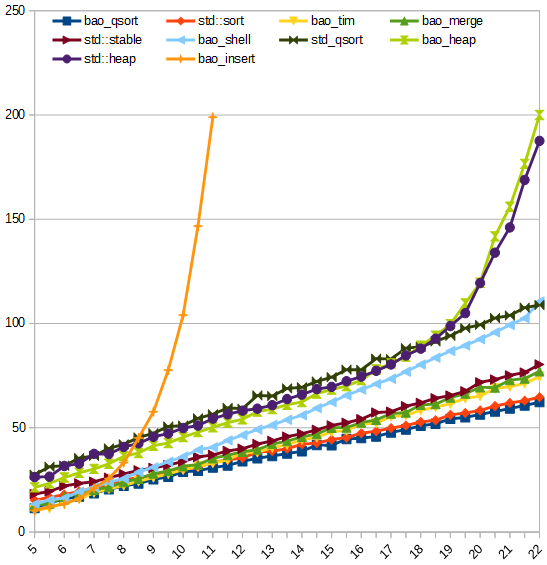
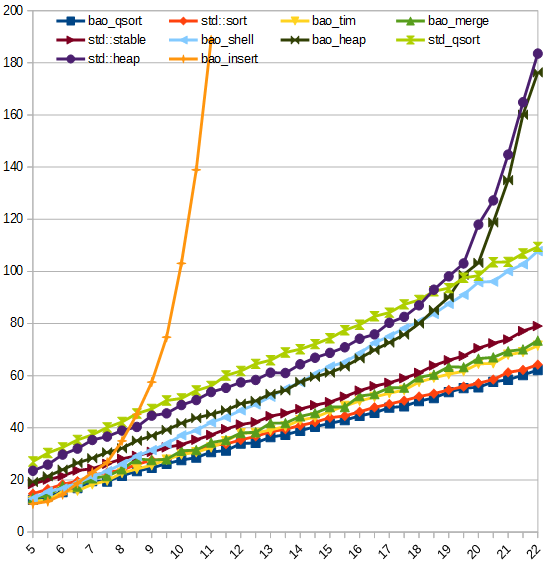
Benchmark update

Changed region(s): [[0.0, 0.0, 1.0, 0.9929], [0.7148, 0.0301, 0.9013, 0.0903], [0.5283, 0.0301, 0.6837, 0.0903]]

diff --git a/README.md b/README.md
@@ -52,31 +52,39 @@ Build with `g++ -std=c++03 -O3 sorttest.cpp` on Centos 7 x64, gcc version is 8.3
 
 TestClass 8 |  1  |  2  |  3  |  4  |  5  |  6  |  7  |  8  |  9  |  10 |  11 |  12 | Avg |
 ------------|----:|----:|----:|----:|----:|----:|----:|----:|----:|----:|----:|----:|----:|
-bao_qsort   |   11|   61|   64|  206|  177|   74|  106|   87|   82|  114|  187|  131|  108|
-std::sort   |  128|   76|   64|  184|  185|  145|  139|   79|  178|  109|  184|  155|  135|
-bao_tim     |    7|   31|   19|  267|  275|  226|  170|   12|  148|   95|  260|  149|  138|
-bao_merge   |    6|   16|  169|  266|  279|  224|  205|   57|  165|   96|  269|  155|  158|
-bao_shell   |  132|  133|  159|  431|  452|  260|  185|  145|  233|  148|  409|  148|  236|
-bao_mer_in  |    5|   14|  564|  489|  473|  383|  367|   54|  307|   93|  465|  152|  280|
-std::stable |  530|  293|  324|  379|  354|  334|  330|  301|  319|  315|  349|  180|  334|
-std_qsort   |  405|  205|  594|  476|  495|  432|  358|  228|  323|  270|  488|  293|  380|
-bao_heap    |   22|  239|  248|  854|  822|  344|  321|  247|  606|  219|  845|  217|  415|
-std::heap   |  236|  251|  313|  866|  891|  377|  356|  226|  667|  274|  900|  266|  468|
+bao_qsort   |   11|   62|   67|  168|  166|   63|   57|   87|   92|   95|  173|  127|   97|
+std::sort   |  116|   66|   67|  174|  170|  123|  121|   72|  160|  111|  164|  130|  122|
+bao_tim     |    6|   31|   17|  279|  244|  219|  182|   13|  139|   87|  234|  126|  131|
+bao_merge   |   18|   29|  173|  264|  244|  203|  170|   56|  144|   92|  232|  124|  145|
+bao_mer_buf |    5|   18|  138|  395|  355|  222|  209|   51|  220|   85|  343|  126|  180|
+bao_shell   |  121|  121|  141|  379|  403|  230|  166|  120|  192|  147|  348|  143|  209|
+bao_mer_in  |    5|   17|  153|  571|  594|  282|  223|   53|  265|  116|  513|  169|  246|
+std::stable |  287|  303|  294|  338|  317|  318|  305|  299|  297|  292|  322|  154|  293|
+std_qsort   |  172|  176|  271|  419|  437|  361|  303|  213|  283|  222|  425|  263|  295|
+grail_dyn   |   83|  318|  353|  478|  445|  424|  341|  300|  455|  309|  429|  257|  349|
+bao_heap    |   33|  236|  197|  729|  745|  282|  267|  197|  447|  188|  754|  175|  354|
+grail_buf   |   90|  319|  381|  481|  500|  442|  321|  292|  443|  336|  471|  219|  357|
+grail_in    |   85|  318|  370|  489|  527|  442|  346|  314|  481|  337|  476|  242|  368|
+std::heap   |  204|  190|  279|  786|  787|  307|  305|  186|  566|  206|  771|  216|  400|
 
-#### Sorting 8,000,000 int
+#### Sorting 4,500,000 int
 
 int         |  1  |  2  |  3  |  4  |  5  |  6  |  7  |  8  |  9  |  10 |  11 |  12 | Avg |
 ------------|----:|----:|----:|----:|----:|----:|----:|----:|----:|----:|----:|----:|----:|
-bao_qsort   |    8|  117|  138|  593|  569|  131|   95|  161|  133|  252|  568|  419|  265|
-bao_tim     |    5|   52|   15|  677|  659|  313|  162|   10|  121|  216|  640|  413|  273|
-std::sort   |   88|  135|  130|  585|  579|  225|  194|  146|  250|  230|  558|  434|  296|
-bao_merge   |    7|   32|  131|  694|  700|  323|  175|   95|  139|  208|  678|  468|  304|
-std::stable |  179|  189|  188|  699|  695|  390|  209|  194|  191|  297|  657|  478|  363|
-bao_mer_in  |    8|   34|  298|  825|  795|  405|  261|   94|  213|  210|  786|  465|  366|
-bao_shell   |  109|  121|  175| 1011|  986|  397|  138|  120|  326|  223|  929|  450|  415|
-std_qsort   |  308|  301|  339| 1032| 1011|  655|  467|  362|  429|  456|  995|  755|  592|
-std::heap   |  476|  478|  562| 2048| 1980|  626|  565|  488| 1384|  508| 2001|  701|  984|
-bao_heap    |   22|  536|  594| 2096| 2103|  694|  602|  512| 1375|  601| 2115|  638|  990|
+bao_qsort   |    4|   42|   45|  288|  279|   75|   47|   64|   77|  102|  270|  193|  123|
+bao_tim     |    2|   37|    6|  327|  333|  157|   76|    4|   64|  105|  316|  212|  136|
+std::sort   |   80|   55|   67|  290|  306|  125|   91|   76|  122|  127|  285|  220|  153|
+bao_merge   |    4|   17|   76|  347|  338|  182|  115|   58|   67|  102|  326|  234|  155|
+bao_mer_buf |    4|   16|   84|  375|  375|  172|  133|   58|   92|  106|  355|  218|  165|
+std::stable |   93|   88|  104|  349|  340|  189|  107|   99|   99|  150|  333|  257|  184|
+bao_shell   |   52|   49|   68|  503|  487|  193|   57|   55|  146|  108|  460|  239|  201|
+grail_dyn   |   59|  123|  140|  426|  431|  401|  188|  108|  355|  172|  399|  390|  266|
+grail_buf   |   58|  116|  142|  439|  457|  399|  177|  111|  354|  176|  411|  404|  270|
+grail_in    |   57|  126|  154|  450|  454|  394|  177|  118|  351|  180|  424|  428|  276|
+std_qsort   |  125|  140|  160|  522|  500|  321|  219|  161|  187|  230|  497|  386|  287|
+bao_mer_in  |    3|   16|  113|  764|  774|  272|  227|   58|  182|  129|  728|  312|  298|
+bao_heap    |    9|  203|  218|  876|  838|  255|  244|  213|  412|  241|  831|  299|  386|
+std::heap   |  231|  210|  249|  901|  857|  329|  273|  239|  488|  255|  889|  354|  439|
 
 # Benchmark of random shuffle data 
 
